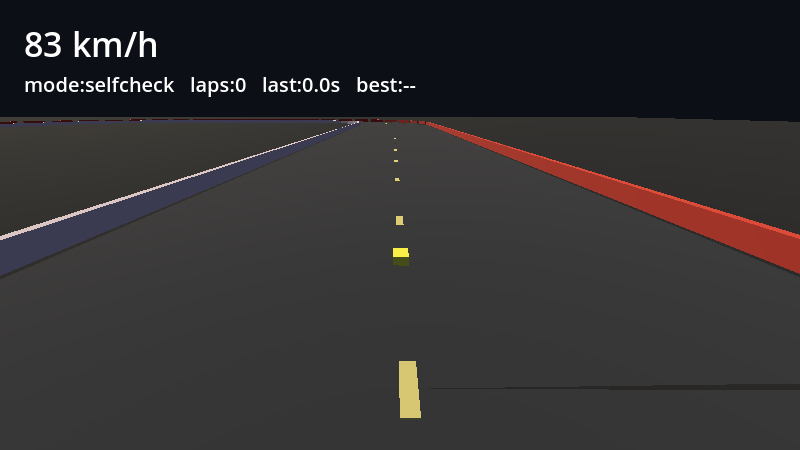
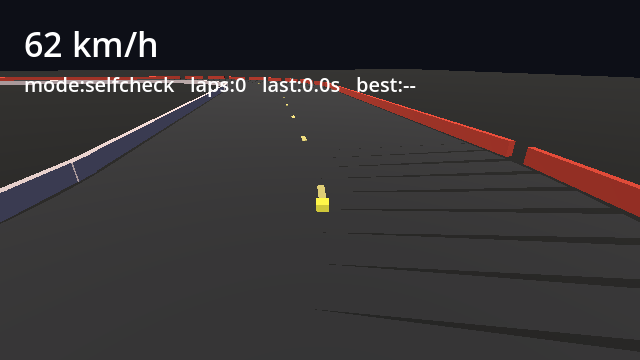
Add viz visual-check tool + first taste pass (street-car retune)
tools/viz: a reusable harness that turns "render → AI glances → human confirms"
into one command — runs a Godot scene headlessly (Xvfb + software GL), builds a
contact sheet (AI review) and an MP4/GIF clip (human confirmation), with a
drop-in capture.gd autoload for any scene.

Slice: honour $VIZ_OUT for frame output; retune the car from an F1-stiff feel
to a heavier street car (1500 kg, less grip, lazier steering) per first human
taste feedback, and re-land clean three-lap self-check passes at the new feel.
Refreshed media.

Claude-Session: https://claude.ai/code/session_01A7PEmX2AKSWrKDkoht9Ksj

diff --git a/tools/viz/viz.py b/tools/viz/viz.py
@@ -1,0 +1,163 @@
+#!/usr/bin/env python3
+"""viz — a tiny visual-check harness for Godot work.
+
+The loop it automates: run a scene headlessly (Xvfb + software GL, no GPU
+needed) and capture frames, stitch them into ONE contact sheet the AI can read
+at a glance, and into an MP4/GIF clip a human can confirm on a phone.
+
+Subcommands:
+  run      run a Godot project (rendered under Xvfb, or --headless) with env vars
+  contact  build a labelled grid of frames (for a quick AI glance)
+  clip     build an MP4 (+ GIF) from frames (for human confirmation)
+  check    run + contact + clip in one go, print every artifact path
+
+Frames are any files matching frame_*.png in a directory. Projects can produce
+them via tools/viz/capture.gd (a drop-in autoload), or with their own capture
+(NEON DELTA writes to $VIZ_OUT when set).
+
+Deps: Pillow (contact), imageio + imageio-ffmpeg (clip). See requirements.txt.
+"""
+import argparse
+import glob
+import os
+import subprocess
+import sys
+
+
+def find_frames(frames_dir, min_bytes=3000):
+    files = sorted(glob.glob(os.path.join(frames_dir, "frame_*.png")))
+    return [f for f in files if os.path.getsize(f) >= min_bytes]
+
+
+def _sample(items, n):
+    if len(items) <= n:
+        return list(items)
+    step = len(items) / n
+    return [items[int(i * step)] for i in range(n)]
+
+
+# ---------------------------------------------------------------- run
+def cmd_run(args):
+    engine = args.engine or os.environ.get("VIZ_GODOT")
+    if not engine or not os.path.exists(engine):
+        sys.exit("error: --engine <godot binary> not found (or set VIZ_GODOT)")
+    env = dict(os.environ)
+    for kv in args.env or []:
+        k, _, v = kv.partition("=")
+        env[k] = v
+    if args.frames_out:
+        env["VIZ_OUT"] = os.path.abspath(args.frames_out)
+        os.makedirs(env["VIZ_OUT"], exist_ok=True)
+    if args.headless:
+        cmd = [engine, "--headless", "--path", args.project]
+    else:
+        env["LIBGL_ALWAYS_SOFTWARE"] = "1"
+        cmd = ["xvfb-run", "-a", engine, "--path", args.project,
+               "--rendering-driver", "opengl3", "--resolution", args.res]
+    print("running:", " ".join(cmd))
+    try:
+        subprocess.run(cmd, env=env, timeout=args.timeout)
+    except subprocess.TimeoutExpired:
+        print(f"(stopped after {args.timeout}s timeout)")
+    return env.get("VIZ_OUT")
+
+
+# ---------------------------------------------------------------- contact sheet
+def cmd_contact(args):
+    from PIL import Image, ImageDraw
+    files = _sample(find_frames(args.frames), args.max)
+    if not files:
+        sys.exit(f"no frames in {args.frames}")
+    cols = args.cols
+    rows = (len(files) + cols - 1) // cols
+    thumb_w = args.width // cols
+    sample = Image.open(files[0])
+    thumb_h = int(sample.height * thumb_w / sample.width)
+    sheet = Image.new("RGB", (thumb_w * cols, thumb_h * rows), (12, 12, 16))
+    draw = ImageDraw.Draw(sheet)
+    for i, f in enumerate(files):
+        im = Image.open(f).convert("RGB").resize((thumb_w, thumb_h))
+        x, y = (i % cols) * thumb_w, (i // cols) * thumb_h
+        sheet.paste(im, (x, y))
+        draw.text((x + 4, y + 2), os.path.basename(f).replace("frame_", "").replace(".png", ""),
+                  fill=(255, 240, 120))
+    out = args.out or os.path.join(args.frames, "contact.png")
+    sheet.save(out)
+    print("contact sheet:", out, f"({len(files)} of {len(find_frames(args.frames))} frames)")
+    return out
+
+
+# ---------------------------------------------------------------- clip
+def cmd_clip(args):
+    import imageio.v2 as imageio
+    from PIL import Image
+    files = find_frames(args.frames)
+    if not files:
+        sys.exit(f"no frames in {args.frames}")
+    frames = []
+    for f in files:
+        im = Image.open(f).convert("RGB")
+        h = int(im.height * args.width / im.width)
+        frames.append(im.resize((args.width, h)))
+    base = args.out or os.path.join(args.frames, "clip")
+    mp4 = base + ".mp4"
+    imageio.mimwrite(mp4, [f for f in frames], fps=args.fps, quality=7, macro_block_size=8)
+    print("mp4:", mp4, _kb(mp4))
+    if args.gif:
+        gif = base + ".gif"
+        frames[0].save(gif, save_all=True, append_images=frames[1:],
+                       duration=int(1000 / args.fps), loop=0, optimize=True)
+        print("gif:", gif, _kb(gif))
+    return mp4
+
+
+def _kb(p):
+    return f"({round(os.path.getsize(p) / 1024)} KB)"
+
+
+# ---------------------------------------------------------------- check (all)
+def cmd_check(args):
+    out = cmd_run(args)
+    frames = args.frames or out
+    if not frames:
+        sys.exit("no --frames dir and project did not report VIZ_OUT")
+    args.frames = frames
+    print("\n--- contact ---")
+    cmd_contact(args)
+    print("\n--- clip ---")
+    cmd_clip(args)
+
+
+def main():
+    p = argparse.ArgumentParser(description="visual-check harness for Godot")
+    sub = p.add_subparsers(dest="cmd", required=True)
+
+    def add_run_opts(sp):
+        sp.add_argument("--engine", help="path to Godot binary (or $VIZ_GODOT)")
+        sp.add_argument("--project", required=True, help="Godot project dir")
+        sp.add_argument("--env", action="append", help="VAR=value (repeatable)")
+        sp.add_argument("--res", default="800x450")
+        sp.add_argument("--headless", action="store_true", help="no rendering (logic only)")
+        sp.add_argument("--timeout", type=int, default=200)
+        sp.add_argument("--frames-out", help="redirect $VIZ_OUT here")
+
+    def add_view_opts(sp):
+        sp.add_argument("--out")
+        sp.add_argument("--width", type=int, default=900)
+        sp.add_argument("--cols", type=int, default=4)
+        sp.add_argument("--max", type=int, default=12)
+        sp.add_argument("--fps", type=int, default=24)
+        sp.add_argument("--gif", action="store_true")
+
+    sp = sub.add_parser("run"); add_run_opts(sp)
+    sp = sub.add_parser("contact"); sp.add_argument("frames"); add_view_opts(sp)
+    sp = sub.add_parser("clip"); sp.add_argument("frames"); add_view_opts(sp)
+    sp = sub.add_parser("check"); add_run_opts(sp); add_view_opts(sp)
+    sp.add_argument("--frames", help="frames dir (defaults to project's $VIZ_OUT)")
+
+    args = p.parse_args()
+    {"run": cmd_run, "contact": cmd_contact, "clip": cmd_clip, "check": cmd_check}[args.cmd](args)
+
+
+if __name__ == "__main__":
+    main()

diff --git a/tools/viz/README.md b/tools/viz/README.md
@@ -1,0 +1,64 @@
+# viz — visual-check harness
+
+A small tool to close the **visual** half of the self-observation loop
+([doc 24](../../docs/24-ai-development-and-self-observation.md)): render a Godot
+scene with no GPU, glance it as one image, and hand a human a clip to confirm.
+
+```
+run a scene  ─►  frames/  ─┬─►  contact.png   (one grid → AI reads it at a glance)
+(Xvfb+softGL)              └─►  clip.mp4/.gif  (→ human confirms on a phone)
+```
+
+Why it exists: every time a change needs a visual sign-off, this makes it **one
+command** instead of a hand-rolled pipeline — easy for the AI to check first,
+and easy to forward to a human once the AI is happy.
+
+## Setup
+
+```bash
+pip install -r tools/viz/requirements.txt
+# a Godot 4.3 binary somewhere; point at it with --engine or $VIZ_GODOT
+export VIZ_GODOT=prototype/neon-delta-slice/engine/Godot_v4.3-stable_linux.x86_64
+```
+
+## Commands
+
+```bash
+# Everything at once: run a project, build a contact sheet + clip
+python3 tools/viz/viz.py check \
+    --project prototype/neon-delta-slice \
+    --env GAME_MODE=selfcheck --env SC_SECONDS=28 \
+    --env CAP_INTERVAL=0.16 --env CAP_MAX=180 \
+    --frames-out /tmp/run_frames --frames /tmp/run_frames \
+    --gif --width 640 --fps 24 --max 12
+
+# Or piecemeal:
+python3 tools/viz/viz.py run     --project <dir> --env K=V --frames-out /tmp/f
+python3 tools/viz/viz.py contact /tmp/f --max 12 --cols 4   # grid for the AI
+python3 tools/viz/viz.py clip    /tmp/f --gif --width 640   # mp4(+gif) for a human
+```
+
+- `--frames-out DIR` sets `$VIZ_OUT`, where capture writes frames. Projects that
+  honour it (NEON DELTA does, and any project using `capture.gd`) drop frames
+  there, so you control the location instead of hunting the user-data dir.
+- Rendering runs under **Xvfb + Mesa software GL** (`LIBGL_ALWAYS_SOFTWARE=1`),
+  so it works on a CI box or container with no GPU. `--headless` skips rendering
+  entirely (logic only — no frames).
+
+## Using it in another Godot project
+
+Add `capture.gd` as an autoload, then run with `VIZ_CAPTURE=1`:
+
+```ini
+# project.godot
+[autoload]
+VizCapture="*res://path/to/capture.gd"
+```
+
+```bash
+VIZ_CAPTURE=1 VIZ_OUT=/tmp/f VIZ_SECONDS=10 \
+  python3 tools/viz/viz.py run --project <dir> --frames-out /tmp/f
+```
+
+It captures the root viewport on a timer and quits on its own — engine-agnostic,
+works on any scene.

diff --git a/CHANGELOG.md b/CHANGELOG.md
@@ -2,6 +2,19 @@
 
 This log tracks the iterative expansion of the design. Newest at top.
 
+## Round 6 — The `viz` Tool + First Taste Pass
+- Added **`tools/viz/`**, a reusable visual-check harness that makes the
+  "render → AI glances it → human confirms" loop a single command: run a Godot
+  scene headlessly (Xvfb + software GL), stitch frames into one **contact sheet**
+  (AI review) and an **MP4/GIF clip** (human confirmation on a phone). Includes
+  a drop-in `capture.gd` autoload so it works on *any* Godot scene.
+- Wired the slice to honour `$VIZ_OUT` so the tool controls frame output, and
+  added env-overridable capture interval / frame cap.
+- **First human taste pass**: the driving read as "an F1 car." Retuned toward a
+  heavy **street car** — more mass (1500 kg), less grip, lazier steering — then
+  re-ran the self-check loop to re-land clean three-lap passes at the new,
+  slower, slidier feel. Refreshed prototype media to match.
+
 ## Round 5 — From Paper to a Playable, Self-Observing Slice
 - The bible left the page: built a **real-engine playable prototype** of the
   signature verb (driving) under `prototype/neon-delta-slice/`, running on
